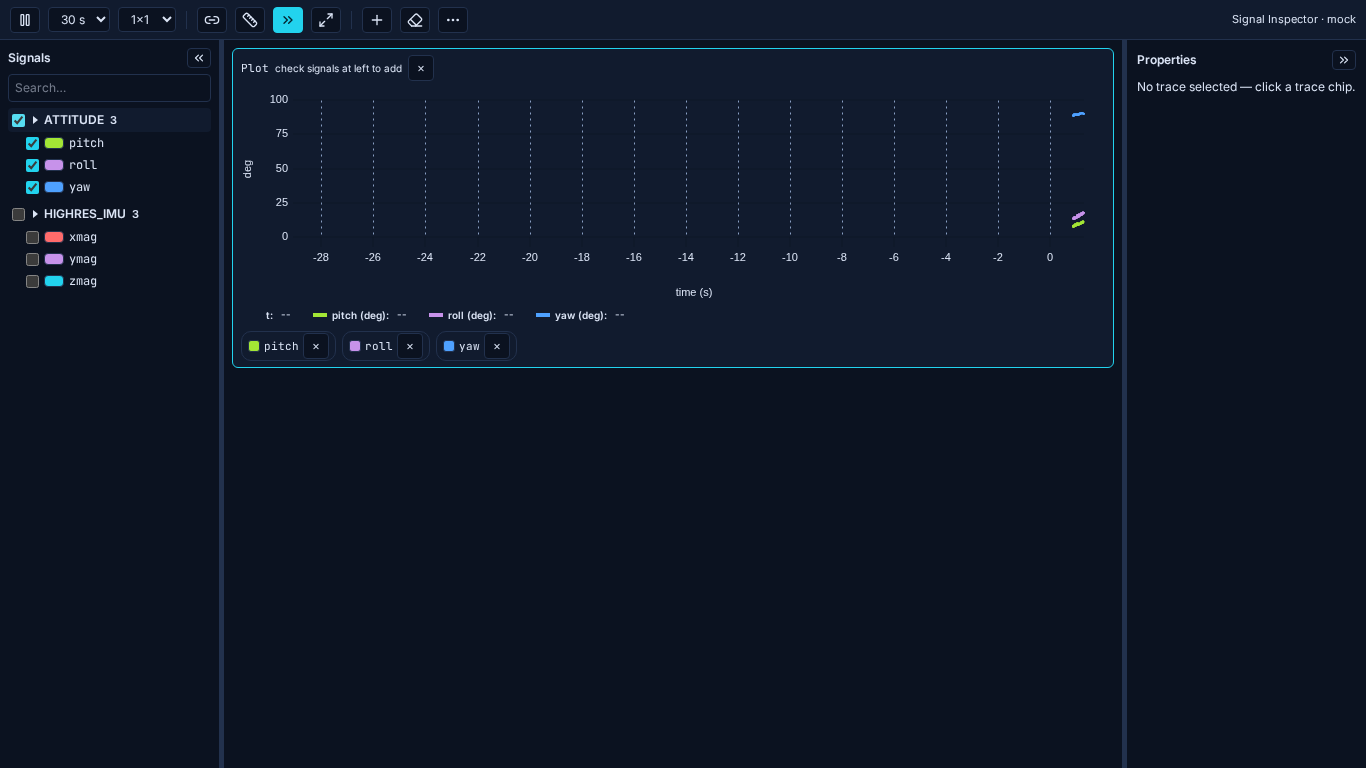
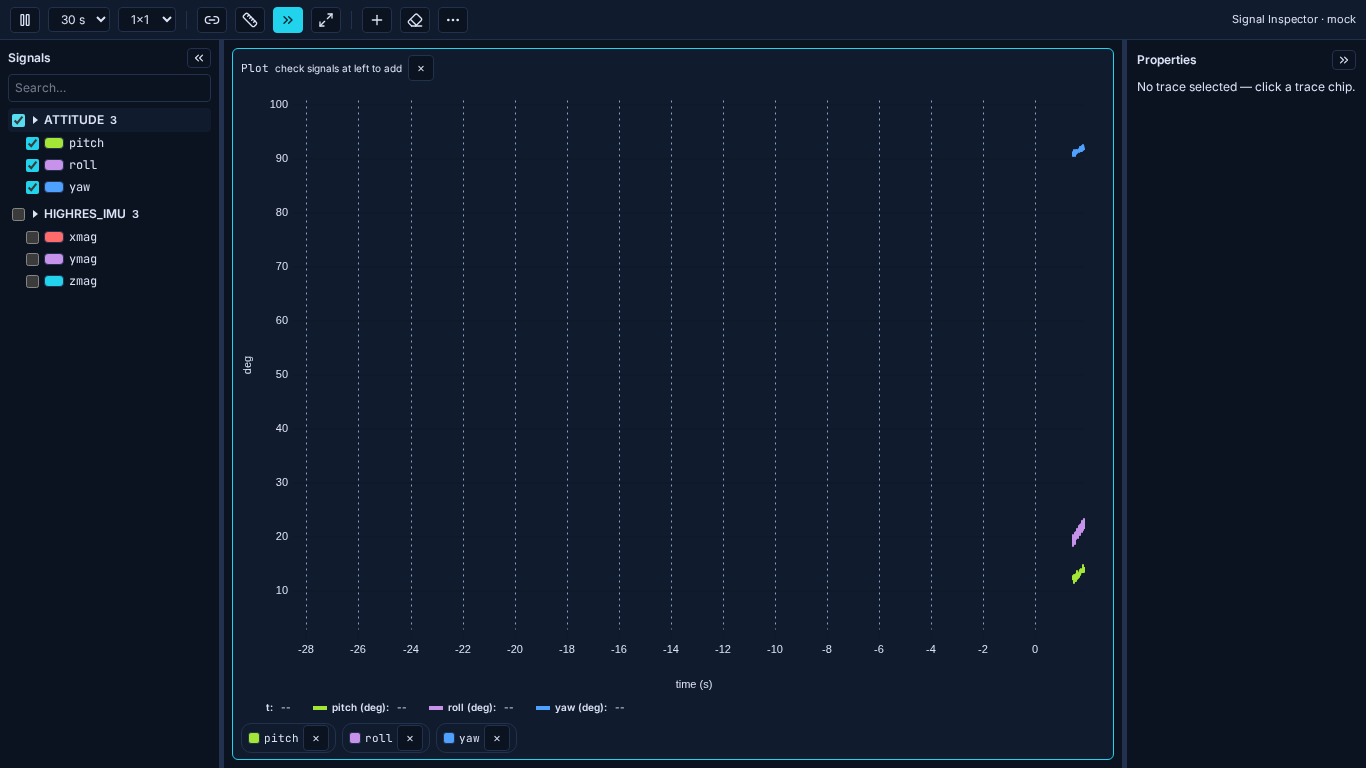
feat(inspector): fill plot height and cap columns to width
A single chart was pinned at 220 px, wasting most of a large window; the plot
rows now fill the workspace and scroll only when they no longer fit, and the
chart sizes to its box (creation + ResizeObserver, min 160 px). The plot-column
preset is capped to what the workspace can hold (`MIN_PLOT_W` = 280 px per
column): the 2x1/3x1 options disable when they would not fit, so no column is
squeezed below a readable width.

check-inspector.mjs asserts the chart fills the 1920x1080 workspace, keeps its
160 px floor at 800x480, and that the column count is 3 at 1920 and 1 at 800.

diff --git a/frontend/src/inspector/InspectorApp.tsx b/frontend/src/inspector/InspectorApp.tsx
@@ -133,6 +133,14 @@ const MAX_PANE_W = 520
 /** The plot workspace keeps at least this width at every window size. */
 const MIN_CENTER_W = 240
 
+/** A plot column needs at least this width; extra columns are held back
+ * until the workspace is wide enough (Insp-2). */
+const MIN_PLOT_W = 280
+/** Chart height before the host box has been measured. */
+const DEFAULT_CHART_H = 220
+/** Smallest height the chart host is allowed to collapse to (matches CSS). */
+const MIN_CHART_H = 160
+
 export const RAIL_W = 26
 export const SPLITTER_W = 4
 /** Keyboard nudge per arrow press on a splitter. */
@@ -445,6 +453,8 @@ export function InspectorApp() {
   const [axisLink, setAxisLink] = useState(false)
   /** Plot-grid column count (P7 layout presets): 1×1 / 2×1 / 3×1. */
   const [layoutCols, setLayoutCols] = useState(1)
+  /** Measured width of the plot workspace, to cap the column count (Insp-2). */
+  const [centerW, setCenterW] = useState(0)
   /** SDI-style dual cursor: click a plot to pin cursor A for Δt/Δy (P7). */
   const [measure, setMeasure] = useState(false)
   /** Plot that checkboxes add signals to (the "same plot" workflow). */
@@ -573,6 +583,8 @@ export function InspectorApp() {
    * window resize); uPlot only sizes on construction otherwise. */
   const chartResizers = useRef<Map<string, ResizeObserver>>(new Map())
   const chartHosts = useRef<Map<string, HTMLDivElement>>(new Map())
+  /** The plot workspace element, measured to cap the column count (Insp-2). */
+  const plotGridRef = useRef<HTMLDivElement | null>(null)
   /** Per-plot DOM node the uPlot legend is mounted into, so it never overlays
    * the curve or axes (uPlot's default legend sits inside the plot box). */
   const chartLegends = useRef<Map<string, HTMLDivElement>>(new Map())
@@ -615,6 +627,18 @@ export function InspectorApp() {
     onResize()
     return () => window.removeEventListener('resize', onResize)
   }, [resizeLeft, resizeRight])
+
+  // Measure the plot workspace so the column count can be capped to what fits
+  // (Insp-2). Its width does not depend on the column count, so this is stable.
+  useEffect(() => {
+    const el = plotGridRef.current
+    if (!el) return
+    const sync = () => setCenterW(el.clientWidth)
+    const ro = new ResizeObserver(sync)
+    ro.observe(el)
+    sync()
+    return () => ro.disconnect()
+  }, [])
   /** The x-range we last set per chart, to tell our auto-scale from a user zoom. */
   const expectedX = useRef<Map<uPlot, { min: number; max: number }>>(new Map())
 
@@ -1020,7 +1044,7 @@ export function InspectorApp() {
       const chart = new uPlot(
         {
           width: host.clientWidth,
-          height: 220,
+          height: Math.max(MIN_CHART_H, host.clientHeight || DEFAULT_CHART_H),
           legend: {
             show: true,
             live: true,
@@ -1078,7 +1102,9 @@ export function InspectorApp() {
       chartSigs.current.set(p.id, sig)
       const ro = new ResizeObserver(() => {
         const w = host.clientWidth
-        if (w > 0 && Math.abs(w - chart.width) > 1) chart.setSize({ width: w, height: 220 })
+        const h = Math.max(MIN_CHART_H, host.clientHeight || DEFAULT_CHART_H)
+        if (w > 0 && (Math.abs(w - chart.width) > 1 || Math.abs(h - chart.height) > 1))
+          chart.setSize({ width: w, height: h })
       })
       ro.observe(host)
       chartResizers.current.set(p.id, ro)
@@ -1294,6 +1320,10 @@ export function InspectorApp() {
     '--insp-right-split': rightCollapsed ? '0px' : `${SPLITTER_W}px`,
   } as unknown as React.CSSProperties
 
+  /** Cap the plot columns to what the workspace width can hold (Insp-2). */
+  const maxPlotCols = clamp(Math.floor(centerW / MIN_PLOT_W), 1, 3)
+  const effectiveCols = Math.min(layoutCols, maxPlotCols)
+
   return (
     <div className="inspector-grid" style={gridStyle}>
       <div className="toolbar">
@@ -1312,12 +1342,18 @@ export function InspectorApp() {
         </select>
         <select
           value={layoutCols}
-          title="Plot grid layout"
+          title={
+            maxPlotCols < layoutCols
+              ? `Plot grid layout (capped to ${maxPlotCols} at this width)`
+              : 'Plot grid layout'
+          }
           onChange={(e) => setLayoutCols(Number(e.target.value))}
         >
-          <option value={1}>1×1</option>
-          <option value={2}>2×1</option>
-          <option value={3}>3×1</option>
+          {[1, 2, 3].map((c) => (
+            <option key={c} value={c} disabled={c > maxPlotCols}>
+              {c}×1
+            </option>
+          ))}
         </select>
         <span className="toolbar-sep" />
         <button
@@ -1508,7 +1544,11 @@ export function InspectorApp() {
         </>
       )}
 
-      <div className="plot-grid" style={{ gridTemplateColumns: `repeat(${layoutCols}, minmax(0, 1fr))` }}>
+      <div
+        className="plot-grid"
+        ref={plotGridRef}
+        style={{ gridTemplateColumns: `repeat(${effectiveCols}, minmax(0, 1fr))` }}
+      >
         {plots.length === 0 && (
           <div className="plot-empty">No plots yet — check a signal on the left to start plotting.</div>
         )}

diff --git a/frontend/src/inspector/inspector.css b/frontend/src/inspector/inspector.css
@@ -425,10 +425,16 @@ input[type='range'] {
   padding: 8px;
   display: grid;
   gap: 8px;
-  align-content: start;
+  /* Rows fill the workspace when they fit and scroll when they don't, so a
+   * single selected plot uses the full height instead of a fixed 220 px
+   * (Insp-2). */
+  grid-auto-rows: minmax(200px, 1fr);
 }
 
 .plot {
+  display: flex;
+  flex-direction: column;
+  min-height: 0;
   border: 1px solid var(--mg-border);
   border-radius: 6px;
   background: var(--mg-bg-raised);
@@ -559,7 +565,10 @@ input[type='range'] {
 
 .plot .chart {
   width: 100%;
-  height: 220px;
+  /* Grow with the plot row; the ResizeObserver sizes uPlot to this box
+   * (Insp-2). */
+  flex: 1;
+  min-height: 160px;
 }
 
 /* uPlot's legend is relocated here via `legend.mount` so it sits under the
